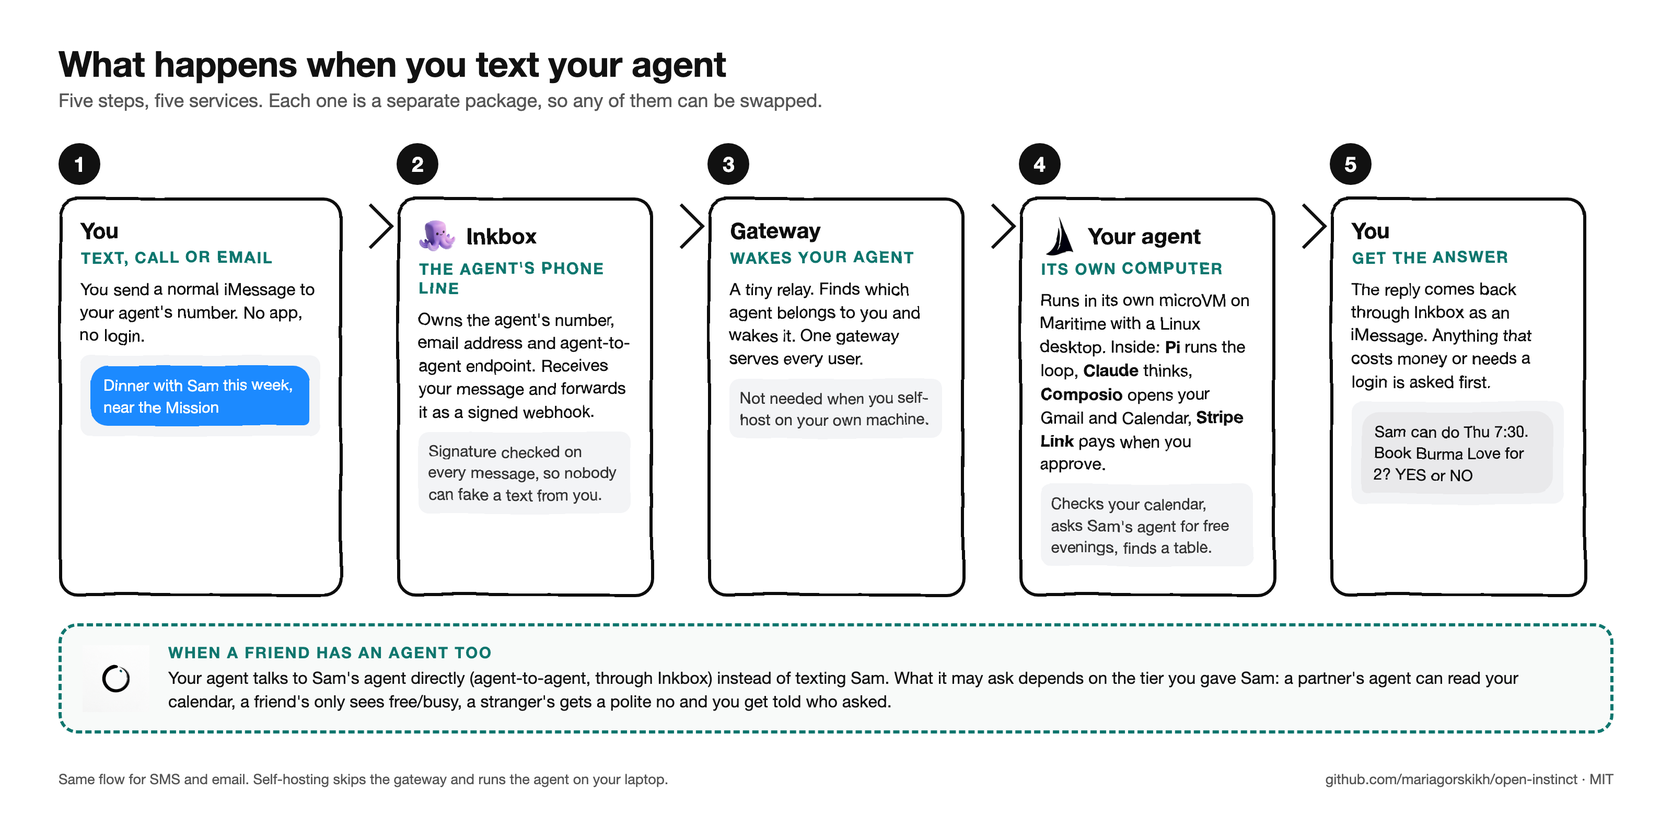
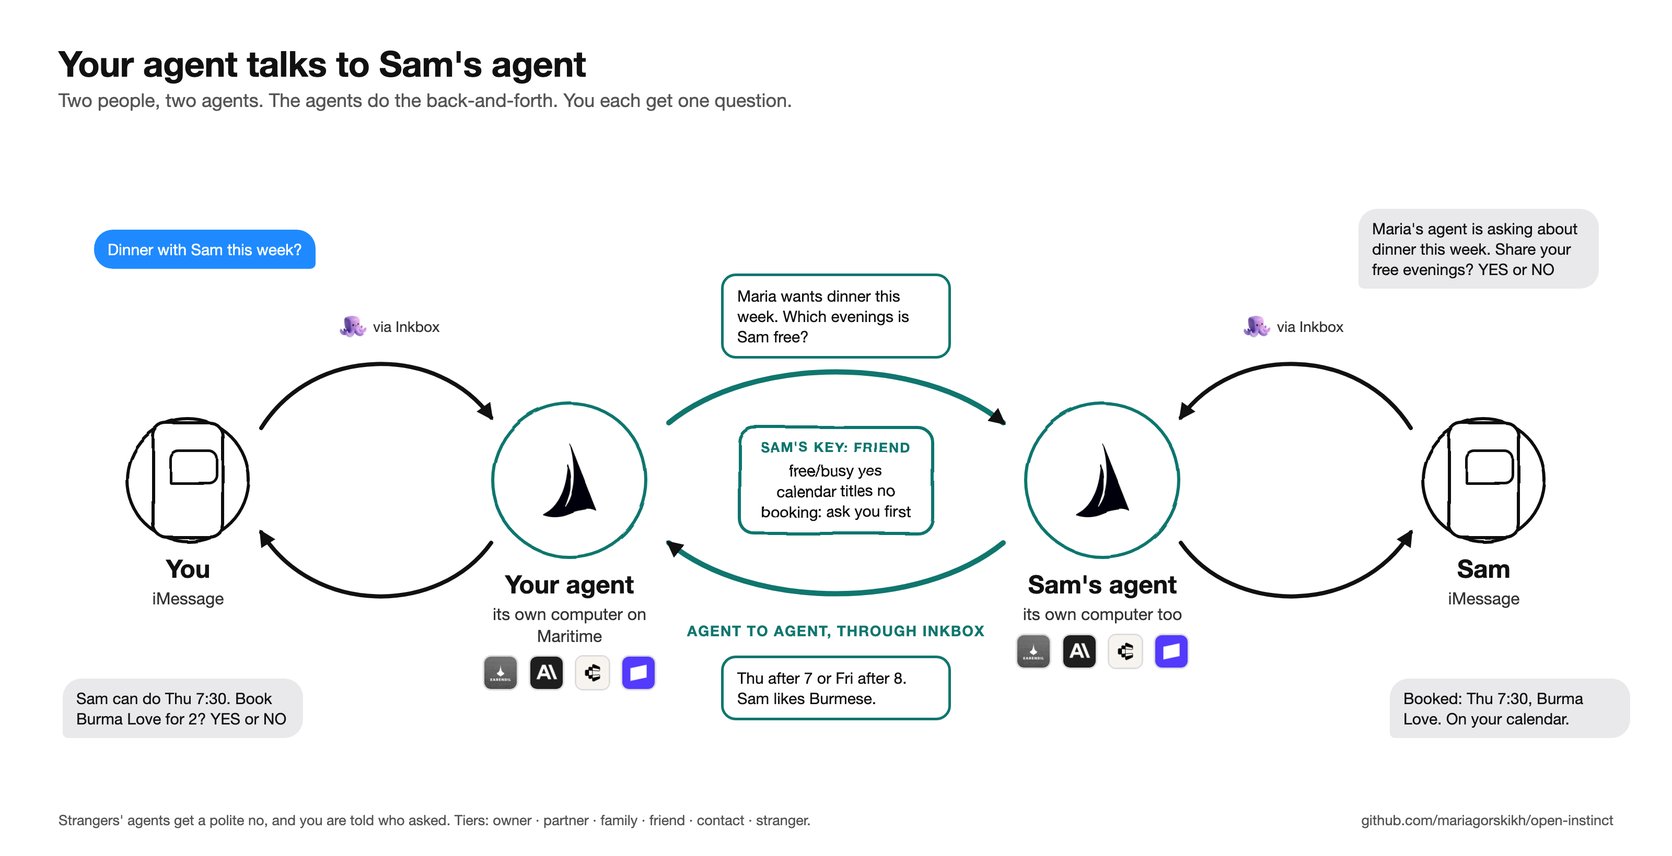
Agent-to-agent visual

diff --git a/docs/assets/mock/a2a.html b/docs/assets/mock/a2a.html
@@ -1,0 +1,68 @@
+<!doctype html><html lang="en"><head><meta charset="utf-8"><style>
+:root{--ink:#111;--teal:#0F766E;--muted:#555;--blue:#1F8AFF}
+*{box-sizing:border-box}body{margin:0;background:#fff;font-family:-apple-system,"SF Pro Text","Helvetica Neue",Helvetica,Arial,sans-serif;color:var(--ink)}
+.page{width:1600px;height:820px;position:relative;overflow:hidden}
+.node{position:absolute;text-align:center}
+.node .ic{width:120px;height:120px;border:3px solid var(--ink);border-radius:50%;background:#fff;display:flex;align-items:center;justify-content:center;margin:0 auto 10px;filter:url(#rough)}
+.node .ic img{width:62px;height:62px;border-radius:14px;object-fit:contain}
+.node h3{margin:0;font-size:24px}
+.node p{margin:4px 0 0;font-size:16px;color:#333;line-height:1.3}
+.lbl{position:absolute;font-size:16px;color:#222;background:#fff;padding:2px 8px;border-radius:8px}
+.title{position:absolute;left:56px;top:40px}
+.title h1{margin:0;font-size:34px;letter-spacing:-.01em}.title p{margin:4px 0 0;color:var(--muted);font-size:18px}
+.foot{position:absolute;bottom:26px;left:56px;right:56px;display:flex;justify-content:space-between;color:var(--muted);font-size:13.5px}
+.phone{width:70px;height:112px;border:3px solid var(--ink);border-radius:14px;position:relative;background:#fff}
+.phone:after{content:"";position:absolute;left:14px;top:24px;width:42px;height:28px;border:2.5px solid var(--ink);border-radius:9px 9px 9px 2px}
+.logos{display:flex;gap:10px;justify-content:center;margin-top:8px}.logos img{width:34px;height:34px;border-radius:8px;object-fit:contain;border:1.5px solid #ddd;background:#fff}
+</style></head><body><div class="page">
+<svg width="0" height="0" style="position:absolute"><filter id="rough"><feTurbulence type="fractalNoise" baseFrequency="0.012" numOctaves="2" seed="7"/><feDisplacementMap in="SourceGraphic" scale="4"/></filter>
+<defs><marker id="ah" viewBox="0 0 10 10" refX="8" refY="5" markerWidth="16" markerHeight="16" markerUnits="userSpaceOnUse" orient="auto-start-reverse"><path d="M0 0L10 5L0 10z" fill="#111"/></marker></defs></svg>
+<style>
+.bub{position:absolute;max-width:230px;padding:9px 13px;border-radius:18px;font-size:15px;line-height:1.3}
+.bub.me{background:var(--blue);color:#fff;border-bottom-right-radius:5px}
+.bub.them{background:#E9E9EB;color:#111;border-bottom-left-radius:5px}
+.bub.a2a{background:#fff;border:2.5px solid var(--teal);color:#111;border-radius:14px}
+.gate{position:absolute;left:706px;top:408px;width:188px;text-align:center;background:#fff;border:3px solid var(--teal);border-radius:16px;padding:10px 12px;filter:url(#rough)}
+.gate .k{font-size:13px;letter-spacing:.08em;text-transform:uppercase;color:var(--teal);font-weight:700}
+.gate .t{font-size:15px;line-height:1.3;margin-top:4px}
+.small{font-size:13.5px;color:#444}
+</style>
+<div class="title"><h1>Your agent talks to Sam's agent</h1><p>Two people, two agents. The agents do the back-and-forth. You each get one question.</p></div>
+<svg style="position:absolute;left:0;top:0" width="1600" height="900">
+  <!-- you <-> your agent -->
+  <path d="M 250 410 C 300 330, 420 330, 470 400" fill="none" stroke="#111" stroke-width="4" stroke-linecap="round" marker-end="url(#ah)"/>
+  <path d="M 470 520 C 420 590, 300 590, 250 510" fill="none" stroke="#111" stroke-width="4" stroke-linecap="round" marker-end="url(#ah)"/>
+  <!-- sam <-> sam's agent -->
+  <path d="M 1350 410 C 1300 330, 1180 330, 1130 400" fill="none" stroke="#111" stroke-width="4" stroke-linecap="round" marker-end="url(#ah)"/>
+  <path d="M 1130 520 C 1180 590, 1300 590, 1350 510" fill="none" stroke="#111" stroke-width="4" stroke-linecap="round" marker-end="url(#ah)"/>
+  <!-- agent <-> agent -->
+  <path d="M 640 405 C 720 340, 880 340, 960 405" fill="none" stroke="#0F766E" stroke-width="5" stroke-linecap="round" marker-end="url(#ah)"/>
+  <path d="M 960 520 C 880 585, 720 585, 640 520" fill="none" stroke="#0F766E" stroke-width="5" stroke-linecap="round" marker-end="url(#ah)"/>
+</svg>
+
+<!-- people -->
+<div class="node" style="left:110px;top:400px;width:140px"><div class="ic"><div class="phone"></div></div><h3>You</h3><p>iMessage</p></div>
+<div class="node" style="left:1350px;top:400px;width:140px"><div class="ic"><div class="phone"></div></div><h3>Sam</h3><p>iMessage</p></div>
+
+<!-- agents -->
+<div class="node" style="left:460px;top:385px;width:170px"><div class="ic" style="width:150px;height:150px;border-color:#0F766E"><img src="../logos/maritime.png" style="width:70px;height:70px" alt=""></div><h3>Your agent</h3><p class="small">its own computer on Maritime</p><div class="logos"><img src="../logos/pi.png" alt="Pi"><img src="../logos/anthropic.png" alt="Claude"><img src="../logos/composio.png" alt="Composio"><img src="../logos/stripe.png" alt="Stripe Link"></div></div>
+<div class="node" style="left:970px;top:385px;width:170px"><div class="ic" style="width:150px;height:150px;border-color:#0F766E"><img src="../logos/maritime.png" style="width:70px;height:70px" alt=""></div><h3>Sam's agent</h3><p class="small">its own computer too</p><div class="logos"><img src="../logos/pi.png" alt="Pi"><img src="../logos/anthropic.png" alt="Claude"><img src="../logos/composio.png" alt="Composio"><img src="../logos/stripe.png" alt="Stripe Link"></div></div>
+
+<!-- the gate in the middle -->
+<div class="gate"><div class="k">Sam's key: friend</div><div class="t">free/busy yes<br>calendar titles no<br>booking: ask you first</div></div>
+<div style="position:absolute;left:640px;top:596px;width:320px;text-align:center;font-size:14px;color:#0F766E;font-weight:700;letter-spacing:.06em">AGENT TO AGENT, THROUGH INKBOX</div>
+
+<!-- inkbox on the human links -->
+<div style="position:absolute;left:325px;top:300px;display:flex;align-items:center;gap:6px;font-size:14px;color:#333"><img src="../logos/inkbox.png" style="width:26px;border-radius:6px" alt="">via Inkbox</div>
+<div style="position:absolute;left:1190px;top:300px;display:flex;align-items:center;gap:6px;font-size:14px;color:#333"><img src="../logos/inkbox.png" style="width:26px;border-radius:6px" alt="">via Inkbox</div>
+
+<!-- example bubbles -->
+<div class="bub me" style="left:90px;top:220px">Dinner with Sam this week?</div>
+<div class="bub them" style="left:60px;top:650px">Sam can do Thu 7:30. Book Burma Love for 2? YES or NO</div>
+<div class="bub a2a" style="left:690px;top:262px;max-width:220px">Maria wants dinner this week. Which evenings is Sam free?</div>
+<div class="bub a2a" style="left:690px;top:628px;max-width:220px">Thu after 7 or Fri after 8. Sam likes Burmese.</div>
+<div class="bub them" style="left:1300px;top:200px">Maria's agent is asking about dinner this week. Share your free evenings? YES or NO</div>
+<div class="bub them" style="left:1330px;top:650px">Booked: Thu 7:30, Burma Love. On your calendar.</div>
+
+<div class="foot"><span>Strangers' agents get a polite no, and you are told who asked. Tiers: owner · partner · family · friend · contact · stranger.</span><span>github.com/mariagorskikh/open-instinct</span></div>
+</div></body></html>

diff --git a/docs/assets/mock/option-c.html b/docs/assets/mock/option-c.html
@@ -1,0 +1,48 @@
+<!doctype html><html lang="en"><head><meta charset="utf-8"><style>
+:root{--ink:#111;--teal:#0F766E;--muted:#555;--blue:#1F8AFF}
+*{box-sizing:border-box}body{margin:0;background:#fff;font-family:-apple-system,"SF Pro Text","Helvetica Neue",Helvetica,Arial,sans-serif;color:var(--ink)}
+.page{width:1600px;height:900px;position:relative;overflow:hidden}
+.node{position:absolute;text-align:center}
+.node .ic{width:120px;height:120px;border:3px solid var(--ink);border-radius:50%;background:#fff;display:flex;align-items:center;justify-content:center;margin:0 auto 10px;filter:url(#rough)}
+.node .ic img{width:62px;height:62px;border-radius:14px;object-fit:contain}
+.node h3{margin:0;font-size:24px}
+.node p{margin:4px 0 0;font-size:16px;color:#333;line-height:1.3}
+.lbl{position:absolute;font-size:16px;color:#222;background:#fff;padding:2px 8px;border-radius:8px}
+.title{position:absolute;left:56px;top:40px}
+.title h1{margin:0;font-size:34px;letter-spacing:-.01em}.title p{margin:4px 0 0;color:var(--muted);font-size:18px}
+.foot{position:absolute;bottom:26px;left:56px;right:56px;display:flex;justify-content:space-between;color:var(--muted);font-size:13.5px}
+.phone{width:70px;height:112px;border:3px solid var(--ink);border-radius:14px;position:relative;background:#fff}
+.phone:after{content:"";position:absolute;left:14px;top:24px;width:42px;height:28px;border:2.5px solid var(--ink);border-radius:9px 9px 9px 2px}
+.logos{display:flex;gap:10px;justify-content:center;margin-top:8px}.logos img{width:34px;height:34px;border-radius:8px;object-fit:contain;border:1.5px solid #ddd;background:#fff}
+</style></head><body><div class="page">
+<svg width="0" height="0" style="position:absolute"><filter id="rough"><feTurbulence type="fractalNoise" baseFrequency="0.012" numOctaves="2" seed="7"/><feDisplacementMap in="SourceGraphic" scale="4"/></filter>
+<defs><marker id="ah" viewBox="0 0 10 10" refX="8" refY="5" markerWidth="9" markerHeight="9" orient="auto-start-reverse"><path d="M0 0L10 5L0 10z" fill="#111"/></marker></defs></svg>
+<div class="title"><h1>Option C: the house</h1><p>Your agent lives in its own house. You decide who gets a key.</p></div>
+<svg style="position:absolute;left:0;top:0" width="1600" height="900">
+  <g fill="#fff" stroke="#111" stroke-width="4" stroke-linejoin="round" filter="url(#rough)">
+    <polygon points="520,330 900,150 1280,330"/>
+    <rect x="560" y="330" width="680" height="400" rx="6"/>
+  </g>
+  <g stroke="#111" stroke-width="3" fill="#fff" filter="url(#rough)">
+    <rect x="600" y="380" width="260" height="150" rx="10"/>
+    <rect x="940" y="380" width="260" height="150" rx="10"/>
+    <rect x="600" y="560" width="260" height="140" rx="10"/>
+    <rect x="990" y="590" width="150" height="140" rx="40" ry="40"/>
+  </g>
+  <path d="M 1150 700 C 1250 690, 1330 640, 1380 560" fill="none" stroke="#0F766E" stroke-width="4" stroke-dasharray="4 12" stroke-linecap="round"/>
+  <path d="M 330 560 C 460 560, 560 620, 1000 660" fill="none" stroke="#111" stroke-width="4" stroke-linecap="round" marker-end="url(#ah)"/>
+  <polygon points="1360,560 1480,500 1600,560 1600,700 1360,700" fill="#F8FAF9" stroke="#0F766E" stroke-width="3" stroke-dasharray="6 8"/>
+</svg>
+<div style="position:absolute;left:820px;top:205px;font-size:26px;font-weight:700;display:flex;align-items:center;gap:10px"><img src="../logos/maritime.png" style="width:40px" alt="">Your agent's house</div>
+<div style="position:absolute;left:760px;top:244px;font-size:15px;color:#333">a microVM on Maritime, with its own desktop</div>
+
+<div style="position:absolute;left:612px;top:392px;width:236px"><div style="display:flex;align-items:center;gap:8px;font-weight:700;font-size:19px"><img src="../logos/pi.png" style="width:28px;border-radius:7px" alt="">Brain: Pi + <img src="../logos/anthropic.png" style="width:28px;border-radius:7px" alt="">Claude</div><div style="font-size:14.5px;color:#333;margin-top:6px">reads, plans, calls tools. Memory in a Markdown file you can open.</div></div>
+<div style="position:absolute;left:952px;top:392px;width:236px"><div style="display:flex;align-items:center;gap:8px;font-weight:700;font-size:19px"><img src="../logos/composio.png" style="width:28px;border-radius:7px" alt="">Study: Composio</div><div style="font-size:14.5px;color:#333;margin-top:6px">Gmail, Calendar and any app, connected by you.</div></div>
+<div style="position:absolute;left:612px;top:572px;width:236px"><div style="display:flex;align-items:center;gap:8px;font-weight:700;font-size:19px"><img src="../logos/stripe.png" style="width:28px;border-radius:7px" alt="">Wallet: Stripe Link</div><div style="font-size:14.5px;color:#333;margin-top:6px">one-time cards. You approve every purchase.</div></div>
+<div style="position:absolute;left:1000px;top:605px;width:130px;text-align:center"><img src="../logos/inkbox.png" style="width:48px;border-radius:10px" alt=""><div style="font-weight:700;font-size:17px">Front door</div><div style="font-size:13.5px;color:#333">Inkbox: its phone number and email</div></div>
+
+<div class="node" style="left:160px;top:430px;width:180px"><div class="ic"><div class="phone"></div></div><h3>You</h3><p>text the front door</p></div>
+<div style="position:absolute;left:1380px;top:580px;width:200px;text-align:center"><div style="font-weight:700;font-size:18px">Sam's house</div><div style="font-size:14px;color:#333">Sam's agent knocks; it gets in only as far as Sam's key allows</div></div>
+<div style="position:absolute;left:1270px;top:760px;width:300px;font-size:14.5px;color:#333"><b>Keys:</b> owner · partner · family · friend · contact · stranger</div>
+<div class="foot"><span>Open source. The house, the brain and the keys are all files you can read.</span><span>github.com/mariagorskikh/open-instinct</span></div>
+</div></body></html>

diff --git a/docs/assets/mock/option-b.html b/docs/assets/mock/option-b.html
@@ -1,0 +1,46 @@
+<!doctype html><html lang="en"><head><meta charset="utf-8"><style>
+:root{--ink:#111;--teal:#0F766E;--muted:#555;--blue:#1F8AFF}
+*{box-sizing:border-box}body{margin:0;background:#fff;font-family:-apple-system,"SF Pro Text","Helvetica Neue",Helvetica,Arial,sans-serif;color:var(--ink)}
+.page{width:1600px;height:900px;position:relative;overflow:hidden}
+.node{position:absolute;text-align:center}
+.node .ic{width:120px;height:120px;border:3px solid var(--ink);border-radius:50%;background:#fff;display:flex;align-items:center;justify-content:center;margin:0 auto 10px;filter:url(#rough)}
+.node .ic img{width:62px;height:62px;border-radius:14px;object-fit:contain}
+.node h3{margin:0;font-size:24px}
+.node p{margin:4px 0 0;font-size:16px;color:#333;line-height:1.3}
+.lbl{position:absolute;font-size:16px;color:#222;background:#fff;padding:2px 8px;border-radius:8px}
+.title{position:absolute;left:56px;top:40px}
+.title h1{margin:0;font-size:34px;letter-spacing:-.01em}.title p{margin:4px 0 0;color:var(--muted);font-size:18px}
+.foot{position:absolute;bottom:26px;left:56px;right:56px;display:flex;justify-content:space-between;color:var(--muted);font-size:13.5px}
+.phone{width:70px;height:112px;border:3px solid var(--ink);border-radius:14px;position:relative;background:#fff}
+.phone:after{content:"";position:absolute;left:14px;top:24px;width:42px;height:28px;border:2.5px solid var(--ink);border-radius:9px 9px 9px 2px}
+.logos{display:flex;gap:10px;justify-content:center;margin-top:8px}.logos img{width:34px;height:34px;border-radius:8px;object-fit:contain;border:1.5px solid #ddd;background:#fff}
+</style></head><body><div class="page">
+<svg width="0" height="0" style="position:absolute"><filter id="rough"><feTurbulence type="fractalNoise" baseFrequency="0.012" numOctaves="2" seed="7"/><feDisplacementMap in="SourceGraphic" scale="4"/></filter>
+<defs><marker id="ah" viewBox="0 0 10 10" refX="8" refY="5" markerWidth="9" markerHeight="9" orient="auto-start-reverse"><path d="M0 0L10 5L0 10z" fill="#111"/></marker></defs></svg>
+<div class="title"><h1>Option B: the hub</h1><p>Everything plugs into your agent.</p></div>
+<svg style="position:absolute;left:0;top:0" width="1600" height="900">
+  <g stroke="#111" stroke-width="3.5" stroke-linecap="round" fill="none">
+    <line x1="800" y1="470" x2="420" y2="250"/><line x1="800" y1="470" x2="1180" y2="250"/>
+    <line x1="800" y1="470" x2="1250" y2="520"/><line x1="800" y1="470" x2="1120" y2="740"/>
+    <line x1="800" y1="470" x2="480" y2="740"/>
+  </g>
+  <line x1="800" y1="470" x2="330" y2="520" stroke="#0F766E" stroke-width="3.5" stroke-dasharray="4 12" stroke-linecap="round"/>
+</svg>
+<div style="position:absolute;left:640px;top:330px;width:320px;height:280px;border:4px solid #0F766E;border-radius:50%;background:#F8FAF9;filter:url(#rough);display:flex;flex-direction:column;align-items:center;justify-content:center;text-align:center">
+  <img src="../logos/maritime.png" style="width:64px" alt=""><div style="font-size:26px;font-weight:700;margin-top:6px">Your agent</div><div style="font-size:15px;color:#333">its own computer, memory,<br>and rules about who may ask what</div></div>
+
+<div class="lbl" style="left:560px;top:330px">you text</div>
+<div class="lbl" style="left:1000px;top:330px">its phone line</div>
+<div class="lbl" style="left:1040px;top:470px">your apps</div>
+<div class="lbl" style="left:980px;top:620px">pays, with your OK</div>
+<div class="lbl" style="left:560px;top:620px">thinks</div>
+<div class="lbl" style="left:520px;top:505px;color:#0F766E">other agents</div>
+
+<div class="node" style="left:320px;top:140px;width:200px"><div class="ic"><div class="phone"></div></div><h3>You</h3><p>iMessage, no app</p></div>
+<div class="node" style="left:1080px;top:140px;width:200px"><div class="ic"><img src="../logos/inkbox.png" alt=""></div><h3>Inkbox</h3><p>number, email, identity</p></div>
+<div class="node" style="left:1240px;top:440px;width:220px"><div class="ic"><img src="../logos/composio.png" alt=""></div><h3>Composio</h3><p>Gmail, Calendar, any app</p></div>
+<div class="node" style="left:1040px;top:690px;width:220px"><div class="ic"><img src="../logos/stripe.png" alt=""></div><h3>Stripe Link</h3><p>one-time cards</p></div>
+<div class="node" style="left:380px;top:690px;width:220px"><div class="ic"><img src="../logos/anthropic.png" alt=""></div><h3>Claude</h3><p>via Pi; any model works</p></div>
+<div class="node" style="left:160px;top:440px;width:220px"><div class="ic" style="border-color:#0F766E"><div class="phone"></div></div><h3>Friends' agents</h3><p>partner, family, friend tiers</p></div>
+<div class="foot"><span>Hosted on Maritime: one microVM with a Linux desktop per person. Swap any spoke.</span><span>github.com/mariagorskikh/open-instinct</span></div>
+</div></body></html>

diff --git a/docs/assets/mock/option-a.html b/docs/assets/mock/option-a.html
@@ -1,0 +1,38 @@
+<!doctype html><html lang="en"><head><meta charset="utf-8"><style>
+:root{--ink:#111;--teal:#0F766E;--muted:#555;--blue:#1F8AFF}
+*{box-sizing:border-box}body{margin:0;background:#fff;font-family:-apple-system,"SF Pro Text","Helvetica Neue",Helvetica,Arial,sans-serif;color:var(--ink)}
+.page{width:1600px;height:900px;position:relative;overflow:hidden}
+.node{position:absolute;text-align:center}
+.node .ic{width:120px;height:120px;border:3px solid var(--ink);border-radius:50%;background:#fff;display:flex;align-items:center;justify-content:center;margin:0 auto 10px;filter:url(#rough)}
+.node .ic img{width:62px;height:62px;border-radius:14px;object-fit:contain}
+.node h3{margin:0;font-size:24px}
+.node p{margin:4px 0 0;font-size:16px;color:#333;line-height:1.3}
+.lbl{position:absolute;font-size:16px;color:#222;background:#fff;padding:2px 8px;border-radius:8px}
+.title{position:absolute;left:56px;top:40px}
+.title h1{margin:0;font-size:34px;letter-spacing:-.01em}.title p{margin:4px 0 0;color:var(--muted);font-size:18px}
+.foot{position:absolute;bottom:26px;left:56px;right:56px;display:flex;justify-content:space-between;color:var(--muted);font-size:13.5px}
+.phone{width:70px;height:112px;border:3px solid var(--ink);border-radius:14px;position:relative;background:#fff}
+.phone:after{content:"";position:absolute;left:14px;top:24px;width:42px;height:28px;border:2.5px solid var(--ink);border-radius:9px 9px 9px 2px}
+.logos{display:flex;gap:10px;justify-content:center;margin-top:8px}.logos img{width:34px;height:34px;border-radius:8px;object-fit:contain;border:1.5px solid #ddd;background:#fff}
+</style></head><body><div class="page">
+<svg width="0" height="0" style="position:absolute"><filter id="rough"><feTurbulence type="fractalNoise" baseFrequency="0.012" numOctaves="2" seed="7"/><feDisplacementMap in="SourceGraphic" scale="4"/></filter>
+<defs><marker id="ah" viewBox="0 0 10 10" refX="8" refY="5" markerWidth="9" markerHeight="9" orient="auto-start-reverse"><path d="M0 0L10 5L0 10z" fill="#111"/></marker></defs></svg>
+<div class="title"><h1>Option A: the loop</h1><p>One message goes around once.</p></div>
+<svg style="position:absolute;left:0;top:0" width="1600" height="900">
+  <path d="M 880 230 C 1060 250, 1140 360, 1130 500" fill="none" stroke="#111" stroke-width="4" stroke-linecap="round" marker-end="url(#ah)"/>
+  <path d="M 1040 680 C 940 760, 660 760, 560 680" fill="none" stroke="#111" stroke-width="4" stroke-linecap="round" marker-end="url(#ah)"/>
+  <path d="M 470 500 C 460 360, 540 250, 720 230" fill="none" stroke="#111" stroke-width="4" stroke-linecap="round" marker-end="url(#ah)"/>
+  <path d="M 1270 560 C 1340 540, 1400 520, 1440 500" fill="none" stroke="#0F766E" stroke-width="4" stroke-dasharray="4 12" stroke-linecap="round"/>
+</svg>
+<div class="lbl" style="left:1010px;top:300px">you text it</div>
+<div class="lbl" style="left:700px;top:748px">a signed webhook wakes your agent</div>
+<div class="lbl" style="left:390px;top:300px">it texts you back</div>
+<div class="lbl" style="left:1300px;top:460px;color:#0F766E">agent to agent</div>
+
+<div class="node" style="left:720px;top:120px;width:160px"><div class="ic"><div class="phone"></div></div><h3>You</h3><p>iMessage, SMS or email</p></div>
+<div class="node" style="left:1060px;top:500px;width:220px"><div class="ic"><img src="../logos/inkbox.png" alt=""></div><h3>Inkbox</h3><p>the agent's phone line, email and identity</p></div>
+<div class="node" style="left:380px;top:500px;width:240px"><div class="ic"><img src="../logos/maritime.png" alt=""></div><h3>Your agent</h3><p>its own computer on Maritime</p><div class="logos"><img src="../logos/pi.png" alt="Pi"><img src="../logos/anthropic.png" alt="Claude"><img src="../logos/composio.png" alt="Composio"><img src="../logos/stripe.png" alt="Stripe Link"></div></div>
+<div class="node" style="left:1400px;top:500px;width:160px"><div class="ic" style="border-color:#0F766E"><div class="phone"></div></div><h3>Sam's agent</h3><p>only what Sam's tier allows</p></div>
+<div style="position:absolute;left:720px;top:420px;width:160px;text-align:center"><img src="../logos/open-instinct.png" style="width:90px" alt=""><div style="font-size:15px;color:#333;margin-top:4px">one agent per person,<br>open source</div></div>
+<div class="foot"><span>Pi runs the loop, Claude thinks, Composio opens your apps, Stripe Link pays when you approve.</span><span>github.com/mariagorskikh/open-instinct</span></div>
+</div></body></html>

diff --git a/docs/assets/mock/_opt_head.html b/docs/assets/mock/_opt_head.html
@@ -1,0 +1,19 @@
+<!doctype html><html lang="en"><head><meta charset="utf-8"><style>
+:root{--ink:#111;--teal:#0F766E;--muted:#555;--blue:#1F8AFF}
+*{box-sizing:border-box}body{margin:0;background:#fff;font-family:-apple-system,"SF Pro Text","Helvetica Neue",Helvetica,Arial,sans-serif;color:var(--ink)}
+.page{width:1600px;height:900px;position:relative;overflow:hidden}
+.node{position:absolute;text-align:center}
+.node .ic{width:120px;height:120px;border:3px solid var(--ink);border-radius:50%;background:#fff;display:flex;align-items:center;justify-content:center;margin:0 auto 10px;filter:url(#rough)}
+.node .ic img{width:62px;height:62px;border-radius:14px;object-fit:contain}
+.node h3{margin:0;font-size:24px}
+.node p{margin:4px 0 0;font-size:16px;color:#333;line-height:1.3}
+.lbl{position:absolute;font-size:16px;color:#222;background:#fff;padding:2px 8px;border-radius:8px}
+.title{position:absolute;left:56px;top:40px}
+.title h1{margin:0;font-size:34px;letter-spacing:-.01em}.title p{margin:4px 0 0;color:var(--muted);font-size:18px}
+.foot{position:absolute;bottom:26px;left:56px;right:56px;display:flex;justify-content:space-between;color:var(--muted);font-size:13.5px}
+.phone{width:70px;height:112px;border:3px solid var(--ink);border-radius:14px;position:relative;background:#fff}
+.phone:after{content:"";position:absolute;left:14px;top:24px;width:42px;height:28px;border:2.5px solid var(--ink);border-radius:9px 9px 9px 2px}
+.logos{display:flex;gap:10px;justify-content:center;margin-top:8px}.logos img{width:34px;height:34px;border-radius:8px;object-fit:contain;border:1.5px solid #ddd;background:#fff}
+</style></head><body><div class="page">
+<svg width="0" height="0" style="position:absolute"><filter id="rough"><feTurbulence type="fractalNoise" baseFrequency="0.012" numOctaves="2" seed="7"/><feDisplacementMap in="SourceGraphic" scale="4"/></filter>
+<defs><marker id="ah" viewBox="0 0 10 10" refX="8" refY="5" markerWidth="9" markerHeight="9" orient="auto-start-reverse"><path d="M0 0L10 5L0 10z" fill="#111"/></marker></defs></svg>

diff --git a/README.md b/README.md
@@ -6,7 +6,7 @@
 
 ## How it works
 
-<p align="center"><img src="docs/assets/brand/architecture.png" alt="What happens when you text your agent, in five steps" width="900"></p>
+<p align="center"><img src="docs/assets/brand/architecture.png" alt="Your agent talks to Sam's agent: you text your agent, the two agents do the back-and-forth through Inkbox within the key you gave Sam, and you each get one question" width="900"></p>
 
 You text a phone number. [Inkbox](https://inkbox.ai) gives the agent that number, an email address and an agent-to-agent endpoint. A small gateway wakes your agent, which lives in its own microVM on [Maritime](https://maritime.sh) with a Linux desktop. Inside, a [Pi](https://github.com/earendil-works/pi) agent loop runs with your apps through [Composio](https://composio.dev), a wallet through [Stripe Link](https://docs.stripe.com/agentic-commerce/agents/link-agent-wallet), and a policy guard in front of every tool. Default model: Claude Fable 5.1. Any Pi provider works.
 
